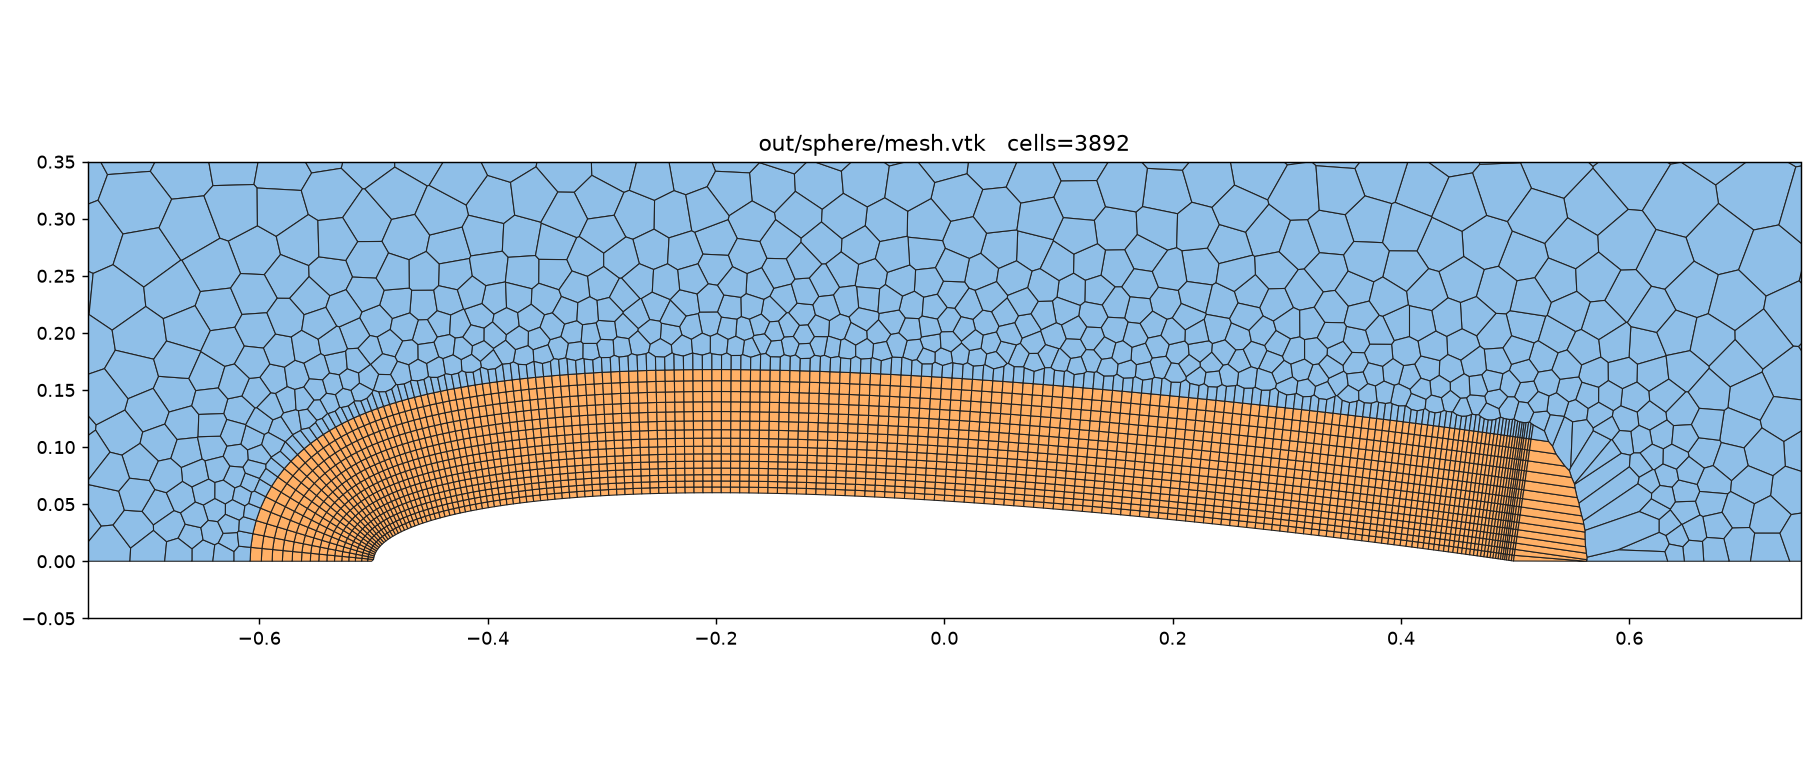
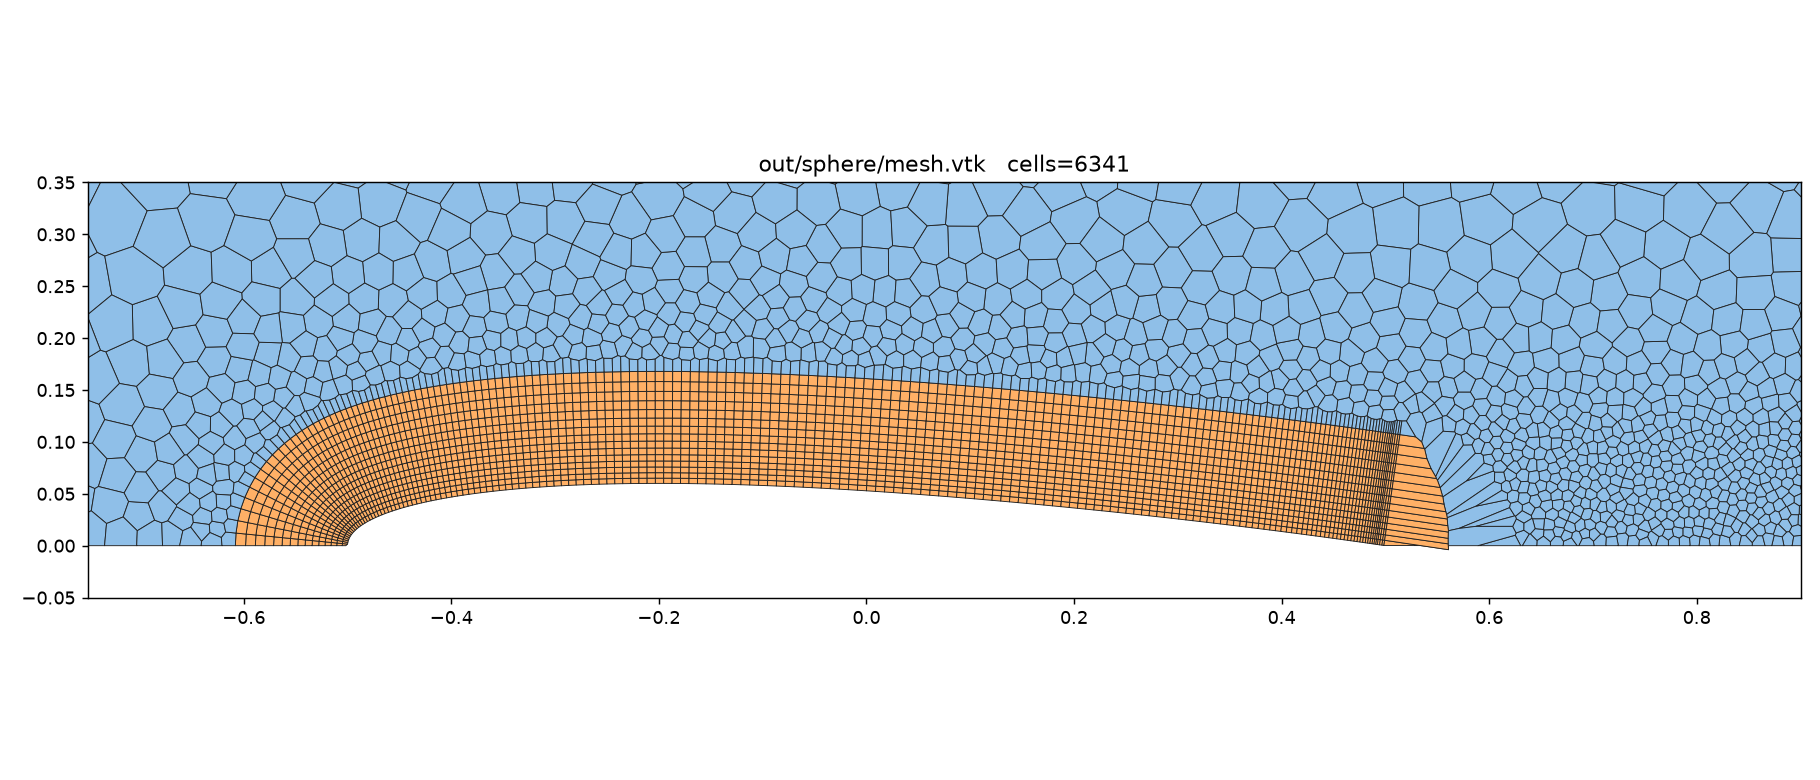
Refine the axisymmetric trailing-edge / wake and document it
The body-of-revolution trailing edge sits on the axis, so its boundary layer
becomes the axisymmetric wake. Add wake refinement (size-field points along the
axis behind the tail) so the arc-fan boundary-layer wrap transitions into a
fine, detailed wake instead of stretched cells -- handled the same way as the
airfoil TE. Refresh sphere preview images and add a TE detail to the README.

Claude-Session: https://claude.ai/code/session_01H7fb4XKKcHpsxCit9RfSzp

Changed region(s): [[0.0, 0.1538, 1.0, 0.8308]]

diff --git a/src/main.cpp b/src/main.cpp
@@ -200,12 +200,18 @@ static void caseSphereAxi() {
     dom.loops.push_back(std::move(L));
     dom.build();
 
+    // Wake refinement: keep the mesh fine along the axis behind the tail (the
+    // trailing edge sits on the axis, so its boundary layer becomes the
+    // axisymmetric wake). These points only drive the size field, not geometry.
+    std::vector<Vec2> refine = bodyPts;
+    for (double xw = 0.5; xw <= 2.0; xw += 0.04) refine.push_back({xw, 0.0});
+
     const double band = dom.loops[0].prism.totalThickness();
     const double hWall = 0.008;
     Mesher::Options mo;
-    mo.sizeField = [bodyPts, band, hWall](Vec2 p) {
+    mo.sizeField = [refine, band, hWall](Vec2 p) {
         double d = 1e9;
-        for (const auto& b : bodyPts) d = std::min(d, dist(p, b));
+        for (const auto& b : refine) d = std::min(d, dist(p, b));
         return std::clamp(hWall + 0.12 * std::max(0.0, d - band), hWall, 0.5);
     };
     mo.lloydIters = 5;

diff --git a/README.md b/README.md
@@ -52,6 +52,12 @@ na ose, koule je horní polokruh. Mezní vrstva obtáčí nos i záď na ose.
 
 ![Meridiánová síť u tělesa](docs/images/sphere_body.png)
 
+Nos i odtoková hrana se řeší **stejně jako u profilu** (obloukový vějíř kolem
+konvexního vrcholu). TE leží na ose, takže mezní vrstva přejde do jemného
+osově symetrického úplavu (zjemnění size fieldem podél osy):
+
+![Detail odtokové hrany](docs/images/sphere_te.png)
+
 Orotováním této 2D sítě kolem osy vznikne 3D síť (v OpenFOAM `wedge`):
 
 | těleso + shell mezní vrstvy | těleso v kouli |
